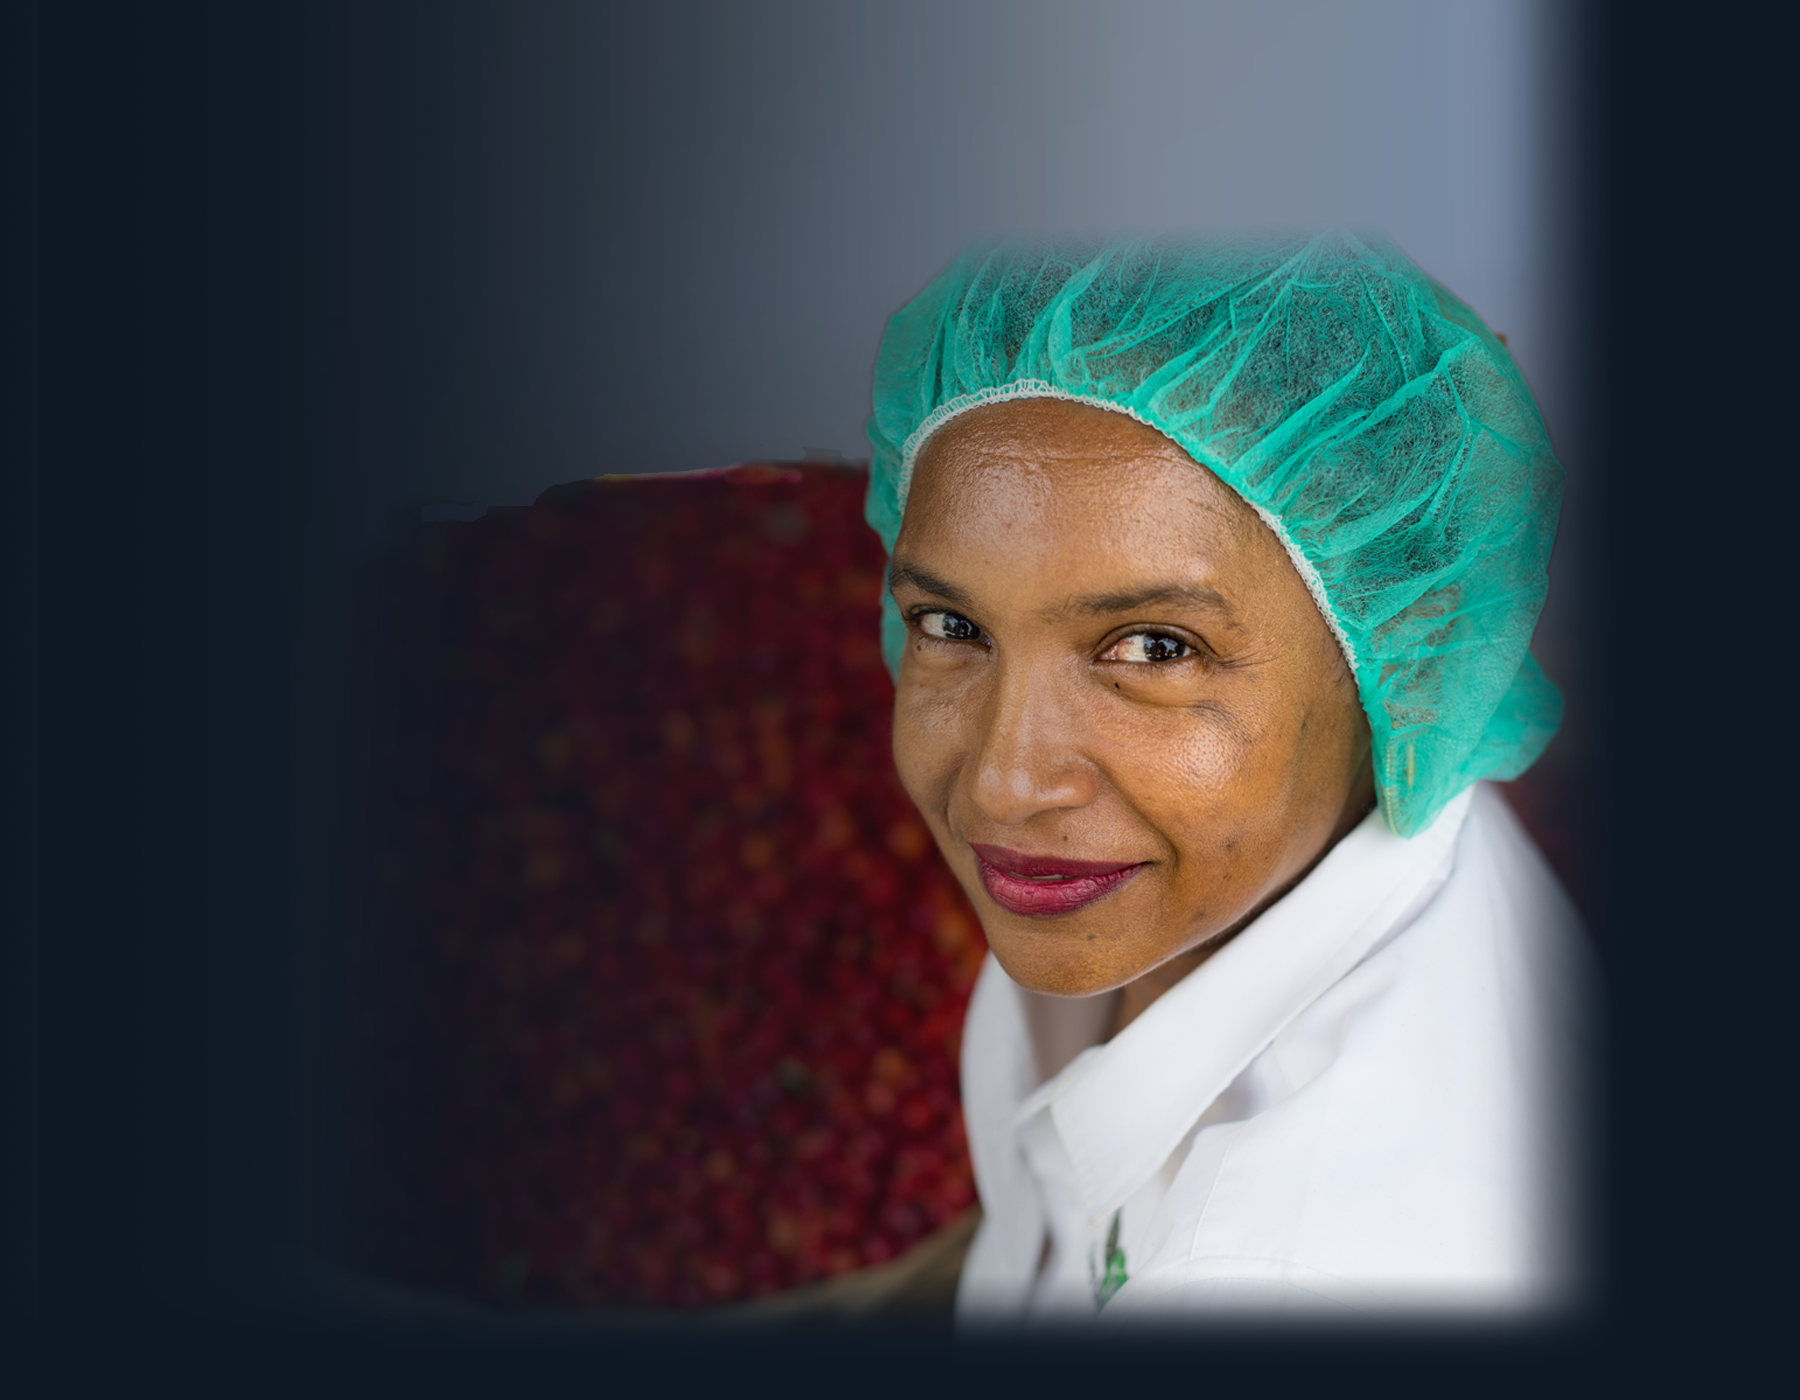
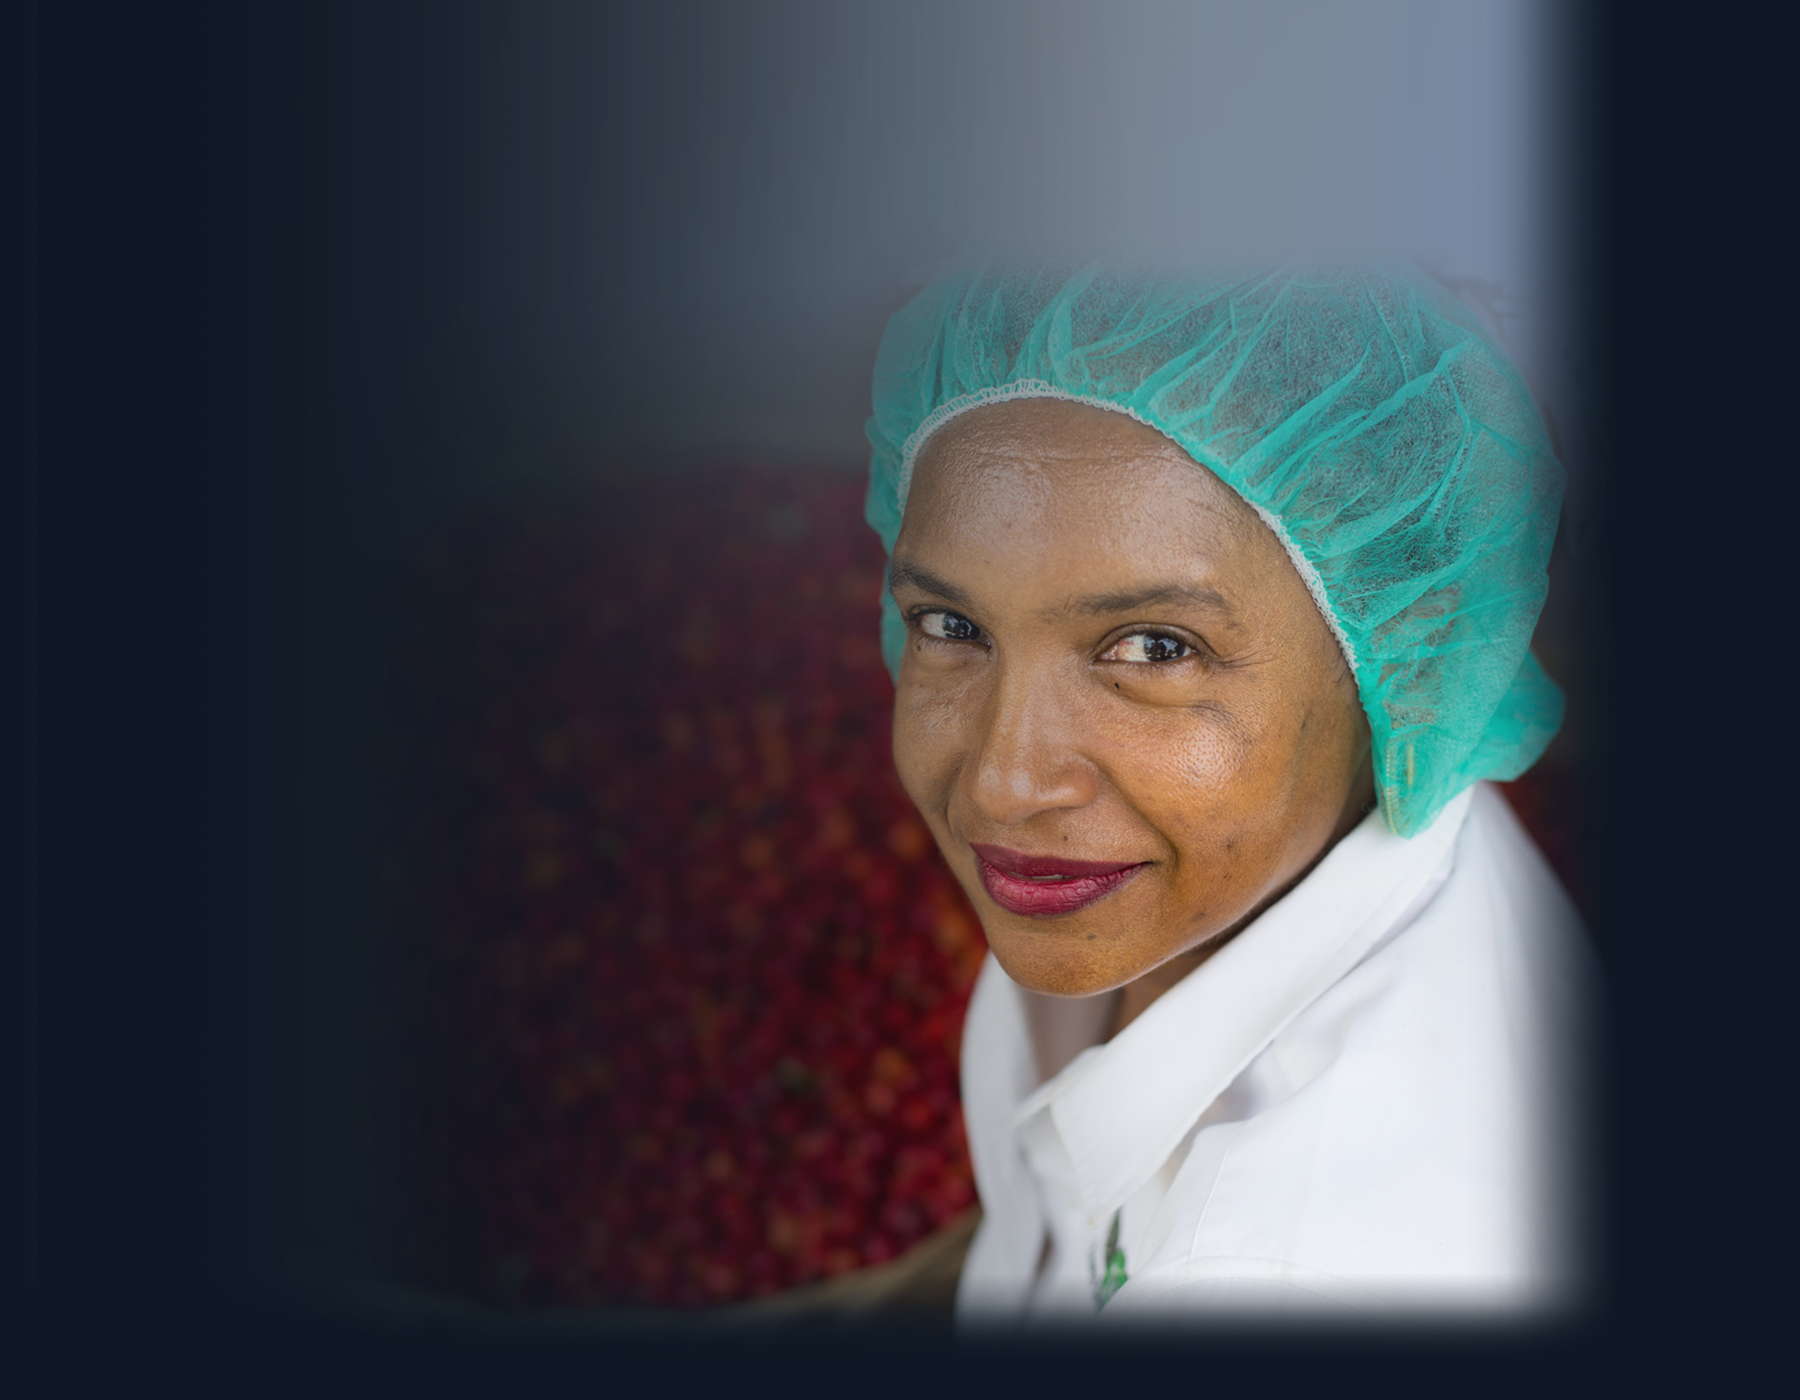
testing

Changed region(s): [[0.3422, 0.1536, 0.8711, 0.4607]]

diff --git a/about-rti/board-of-governors.php b/about-rti/board-of-governors.php
@@ -6,7 +6,7 @@ include $REL_DIR.$INCL_DIR."header.php";
 include $REL_DIR.$INCL_DIR."meta-living.php";
 ?>
 
-<img src="img/filter-back.png" class="sectionBack">
+<img src="img/filter-back.png" class="sectionBack" style="height:100%;">
 	<div class="innerContainer">
 <div class="column left flex">
     <div class="living-our-mission-page">
